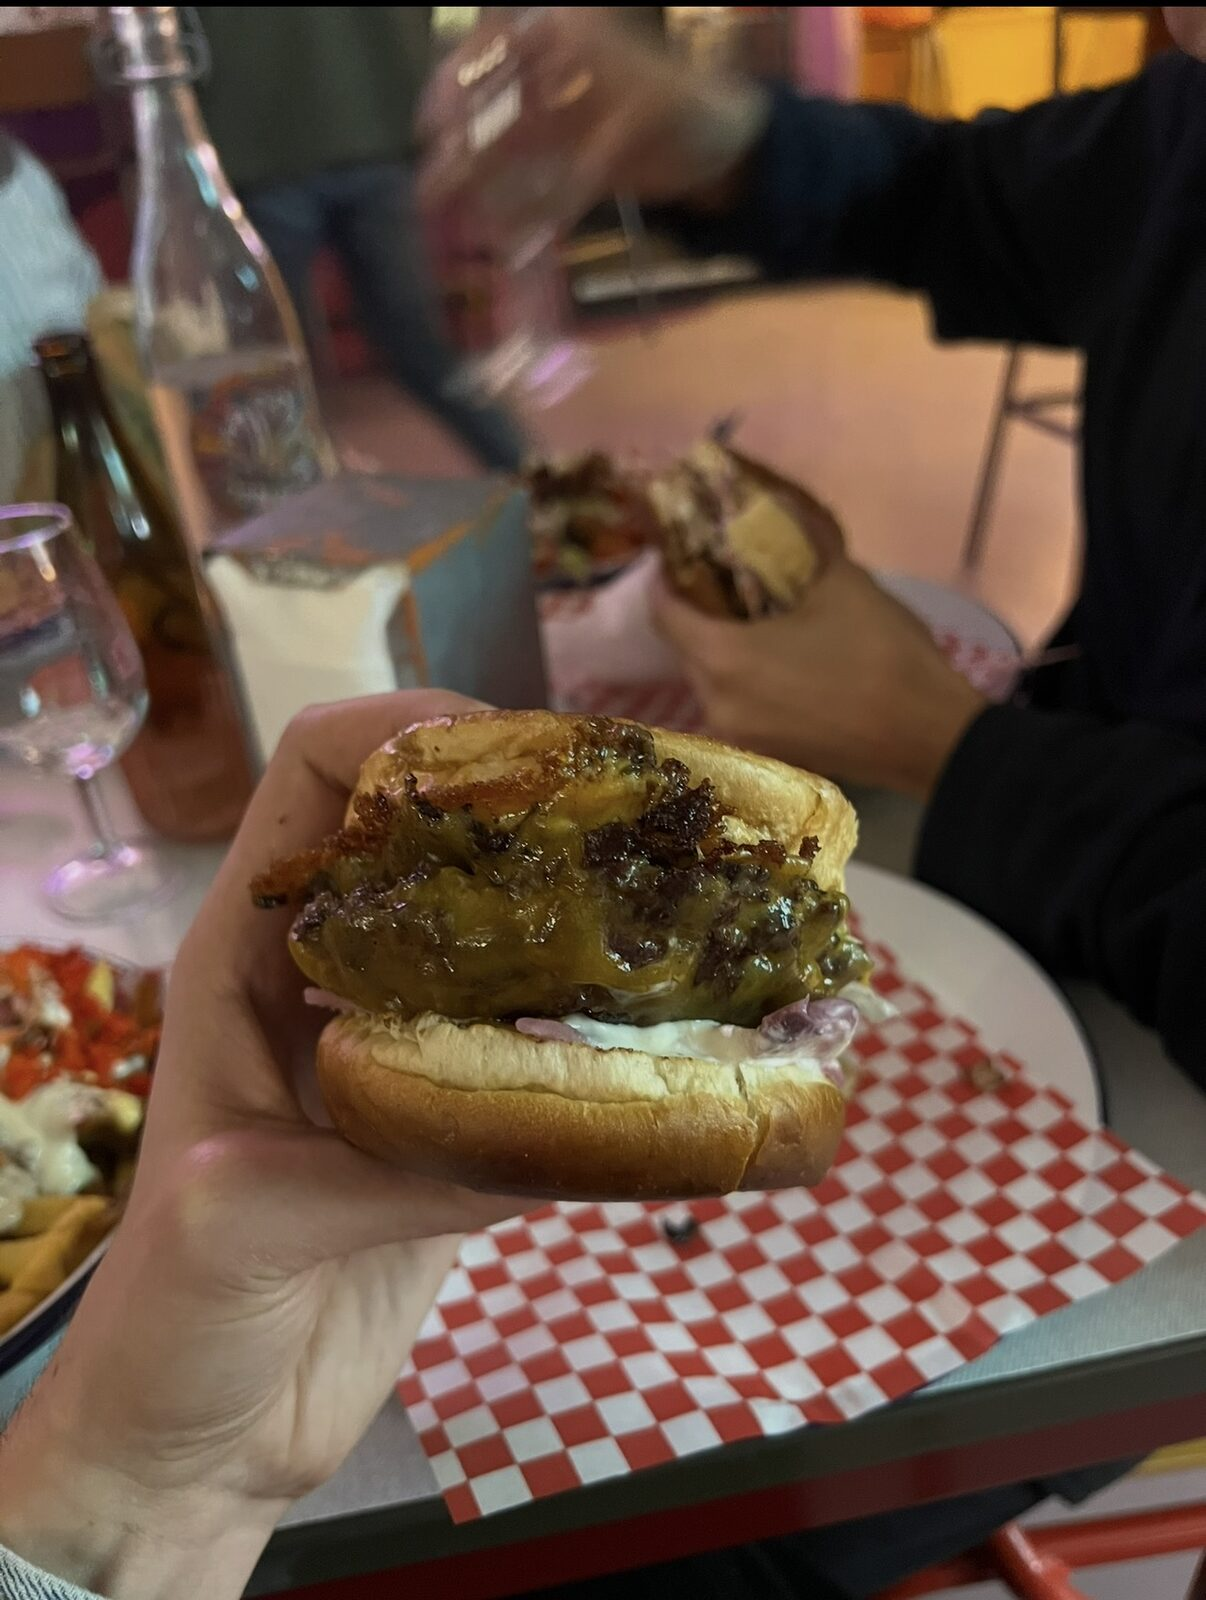
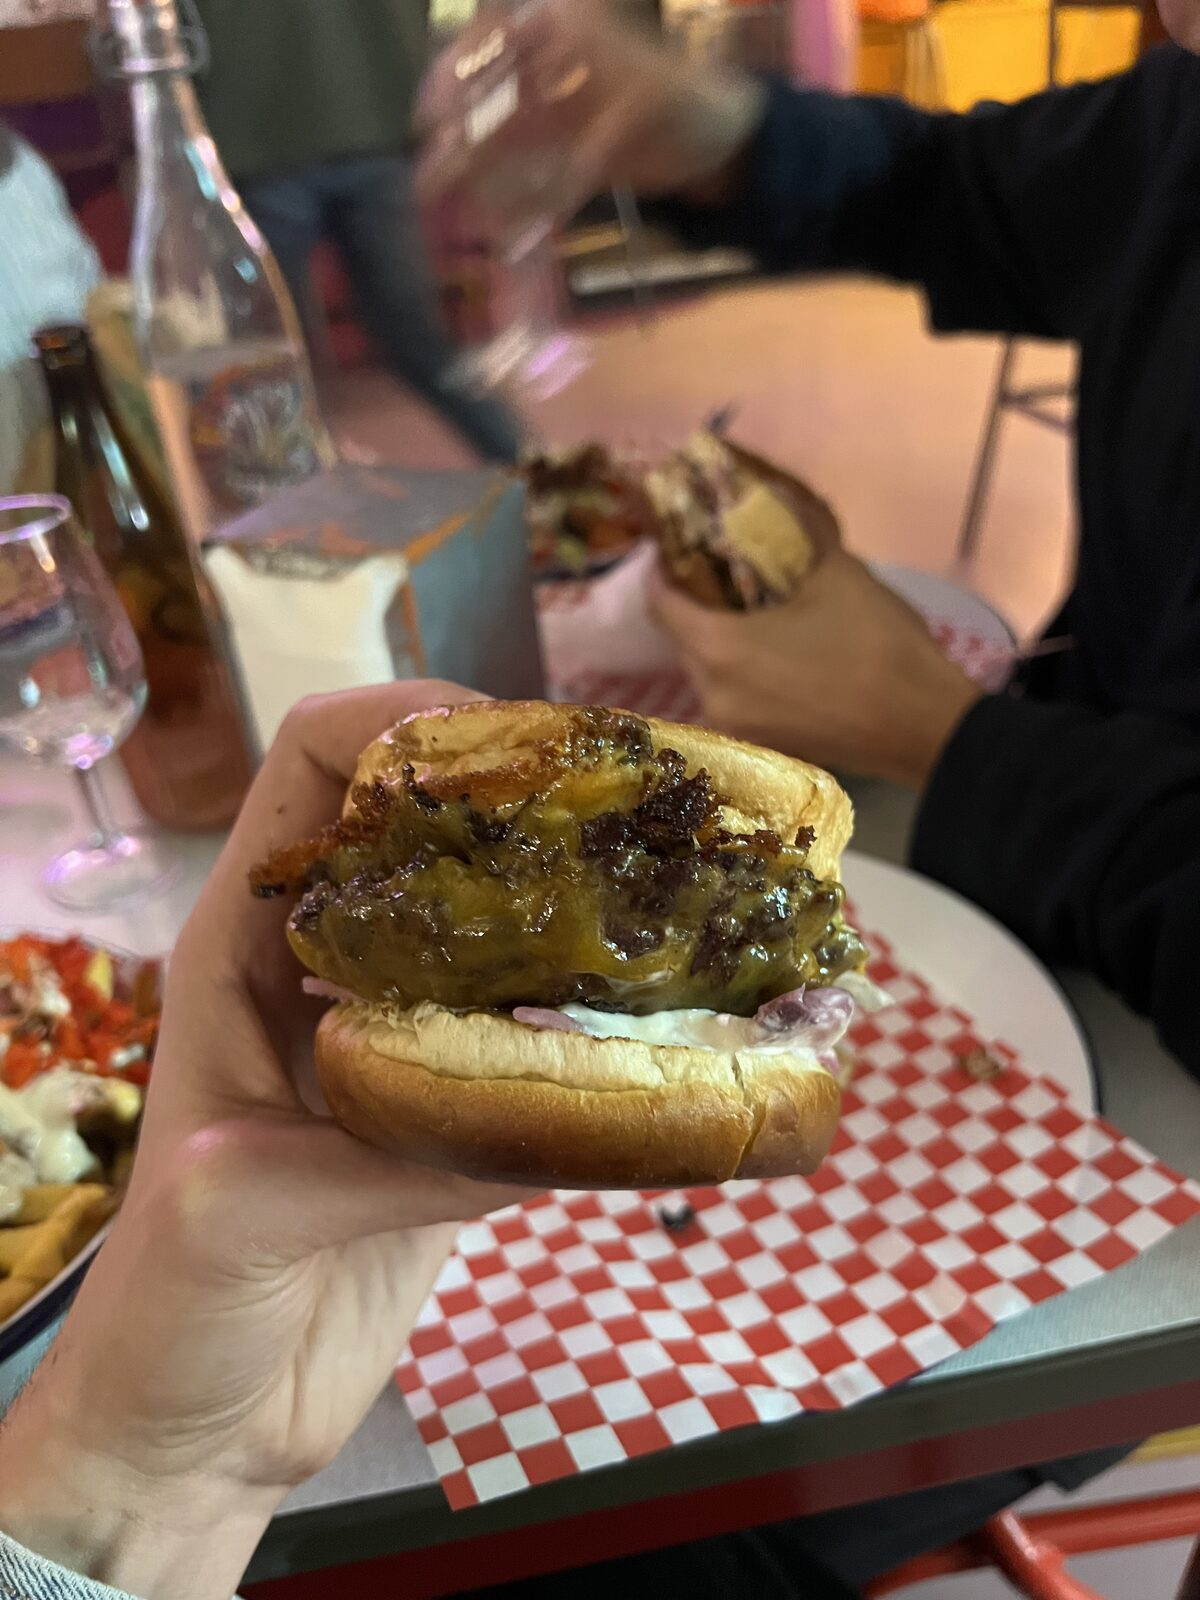
Add files via upload

diff --git a/reviews.html b/reviews.html
@@ -542,7 +542,7 @@
     </div>
 
     <div class="review-card" data-country="netherlands" data-type="burger">
-      <div class="review-img bg-burger">🍔</div>
+      <div class="review-img bg-burger" style="padding:0;"><img src="images/beef-chief.jpg" alt="Beef Chief // Transit Bar" style="width:100%;height:100%;object-fit:cover;"></div>
       <div class="review-body">
         <div style="display:flex;justify-content:space-between;align-items:center;margin-bottom:4px;"><span class="hours-badge" style="font-size:10px;">🕐 Wed-Sun: 17:00-23:00</span><span class="stars" style="color:#C8901A;font-size:14px;">★★★★★</span></div>
         <div class="review-top"><h2 class="review-title">Beef Chief // Transit Bar</h2></div>
